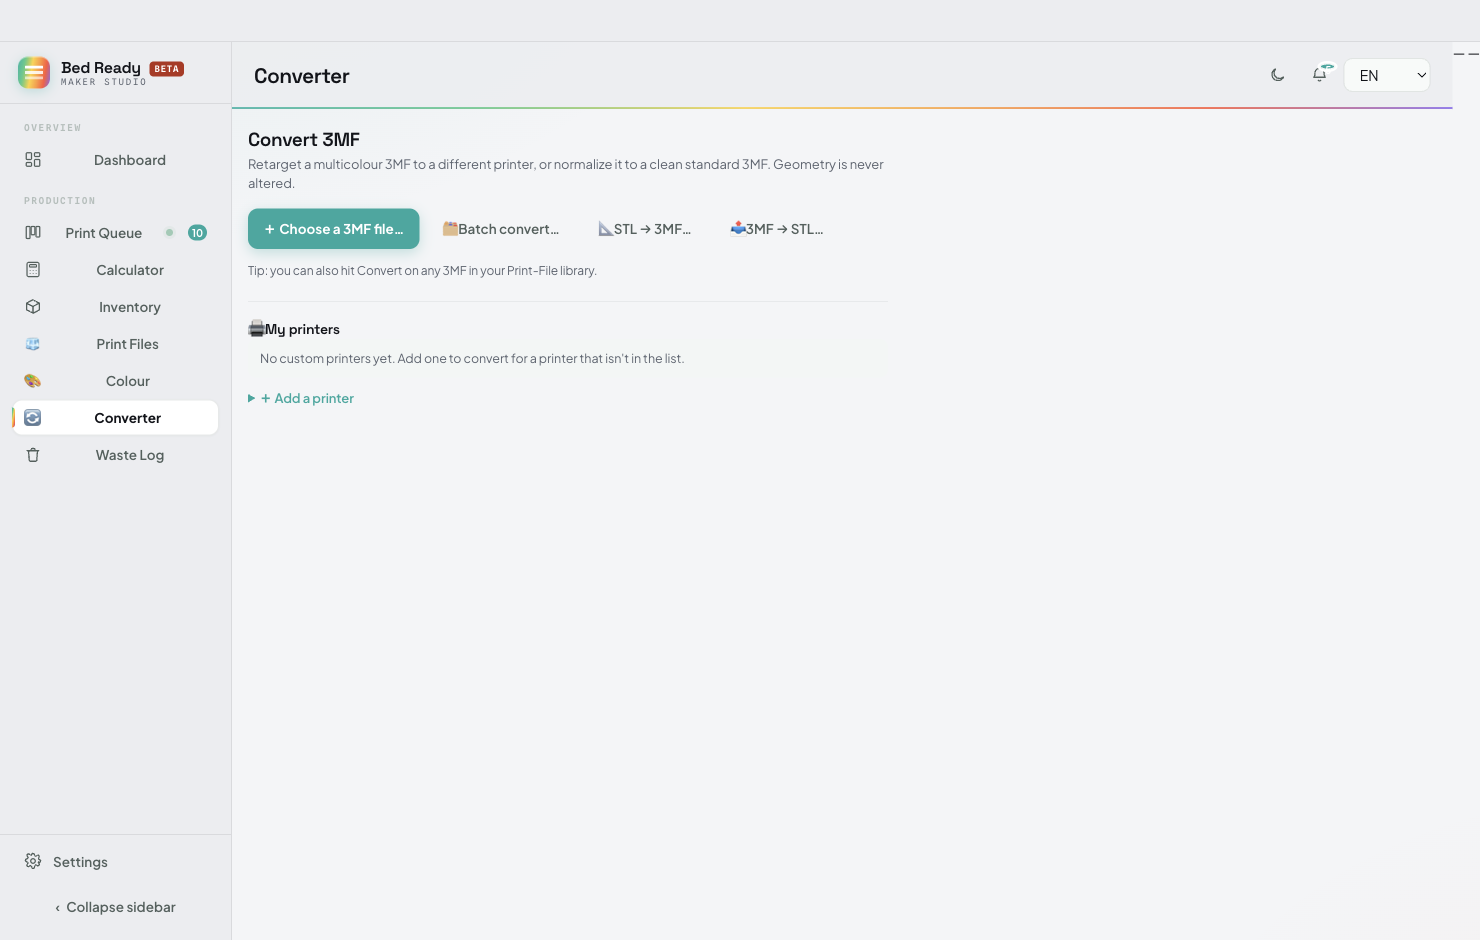
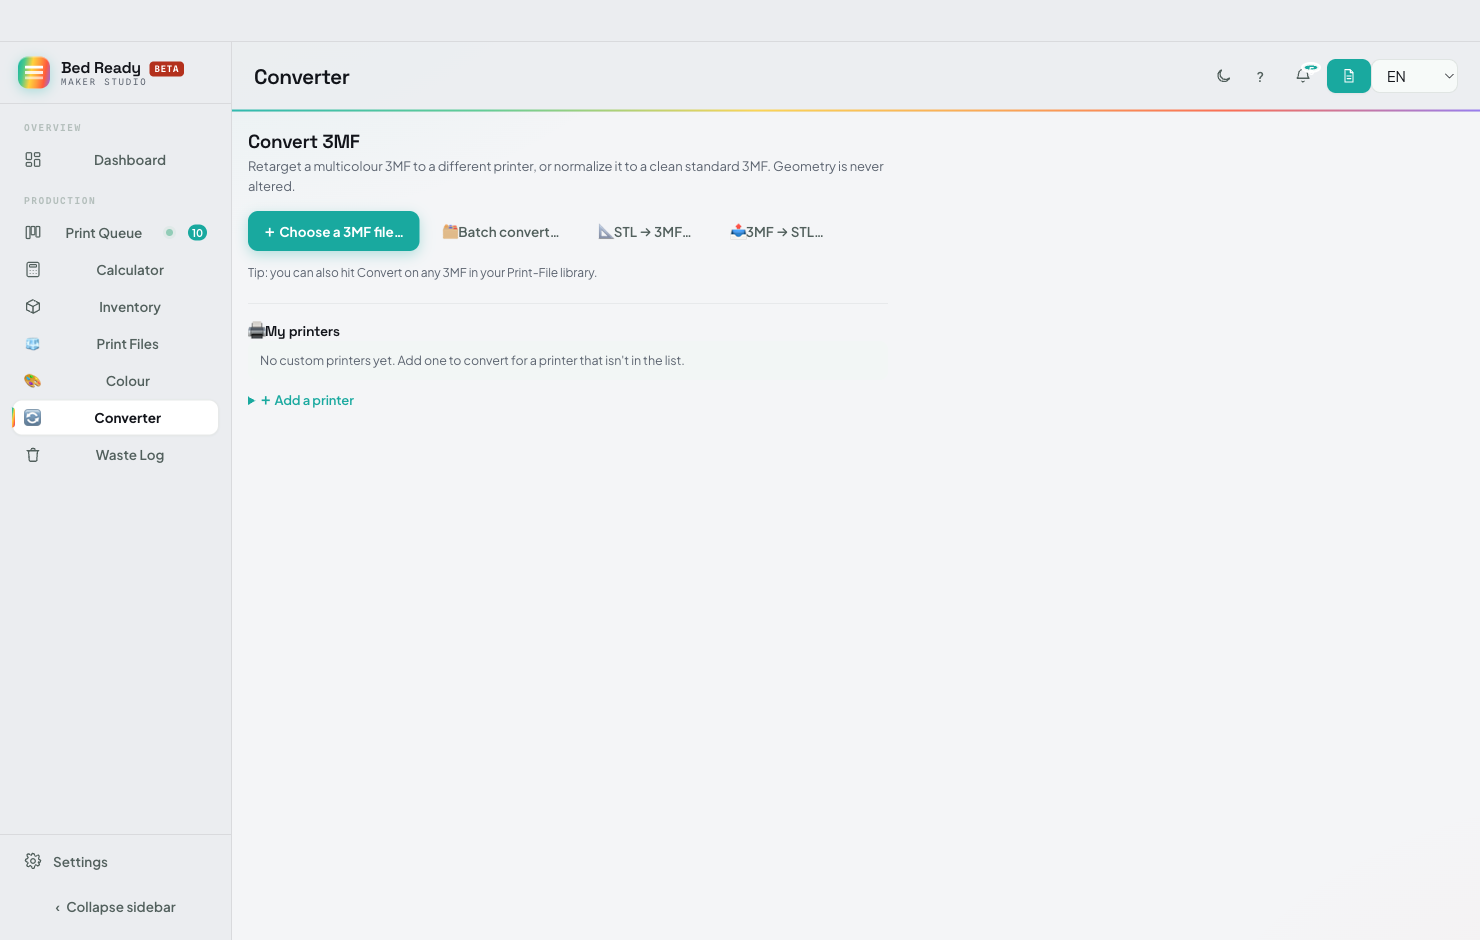
Bed Ready UI: show the beta Feedback button; hide the Console status rail
Two beta-UI fixes:
- The topbar Feedback button was hidden by the flavor CSS (bundled with the
  "clutter" it strips). Keep it visible and style it as a solid accent CTA so
  it's front-and-centre for the beta. (Help button also restored.)
- The Console theme's top-right status bar (#consoleStatusBar / .console-status)
  leaked into Bed Ready as a stray "— —" rail on the right (its display:none
  lived in the alternate-theme CSS Bed Ready no longer ships). Hide it — the main
  content now fills to the window edge.

Refreshed the light-mode screenshot library to match.

diff --git a/renderer/bedready-theme.css b/renderer/bedready-theme.css
@@ -144,7 +144,8 @@ html[data-app="bedready"] .cockpit-pagehead,
 html[data-app="bedready"] .atlas-pagehead,
 html[data-app="bedready"] .workbench-pagehead,
 html[data-app="bedready"] .vivid-pagehead,
-html[data-app="bedready"] .command-pagehead { display: none !important; }
+html[data-app="bedready"] .command-pagehead,
+html[data-app="bedready"] .console-status { display: none !important; }  /* Console theme's top-right status bar (the stray "— —") */
 
 html[data-app="bedready"] body.khayt-studio .khayt-sidebar {
   width: var(--nav-w); min-width: var(--nav-w); max-width: var(--nav-w);
@@ -248,11 +249,10 @@ html[data-app="bedready"] .khayt-toptitle .topbar-title {
   font-family: var(--font-display); font-weight: 600; letter-spacing: -0.025em;
 }
 /* Hide the busy centre search mirror + secondary-action clutter that reads
-   "Khayt". Keep only: theme toggle, notifications, language. */
+   "Khayt". Keep: theme toggle, notifications, language — and the beta Feedback
+   button (kept visible + emphasised below). */
 html[data-app="bedready"] .khayt-search,          /* redundant readonly mirror */
-html[data-app="bedready"] #btnHelp,
 html[data-app="bedready"] #btnGlobalSearch,
-html[data-app="bedready"] #btnFeedback,
 html[data-app="bedready"] #locationFilter,        /* multi-location = business */
 html[data-app="bedready"] #btnNavSwitchOp { display: none !important; }
 
@@ -260,6 +260,16 @@ html[data-app="bedready"] .topbar-actions .btn.ghost {
   border-radius: 9px; color: var(--text-dim);
 }
 html[data-app="bedready"] #langSelect { border-radius: 9px; }
+
+/* Beta: keep the Feedback button front-and-centre in the top bar. Solid coral
+   accent so it's the one obviously-clickable call to action up there. */
+html[data-app="bedready"] #btnFeedback {
+  display: inline-flex !important; align-items: center; gap: 6px;
+  background: var(--accent); color: #fff; border: 0; border-radius: 9px;
+  font-weight: 600; padding: 0 14px; height: 34px; box-shadow: var(--shadow-1);
+}
+html[data-app="bedready"] #btnFeedback:hover { filter: brightness(1.06); }
+html[data-app="bedready"] #btnFeedback:focus-visible { outline: 2px solid var(--accent); outline-offset: 2px; }
 
 /* ============================================================
    Cards, buttons, inputs — clean & tactile
